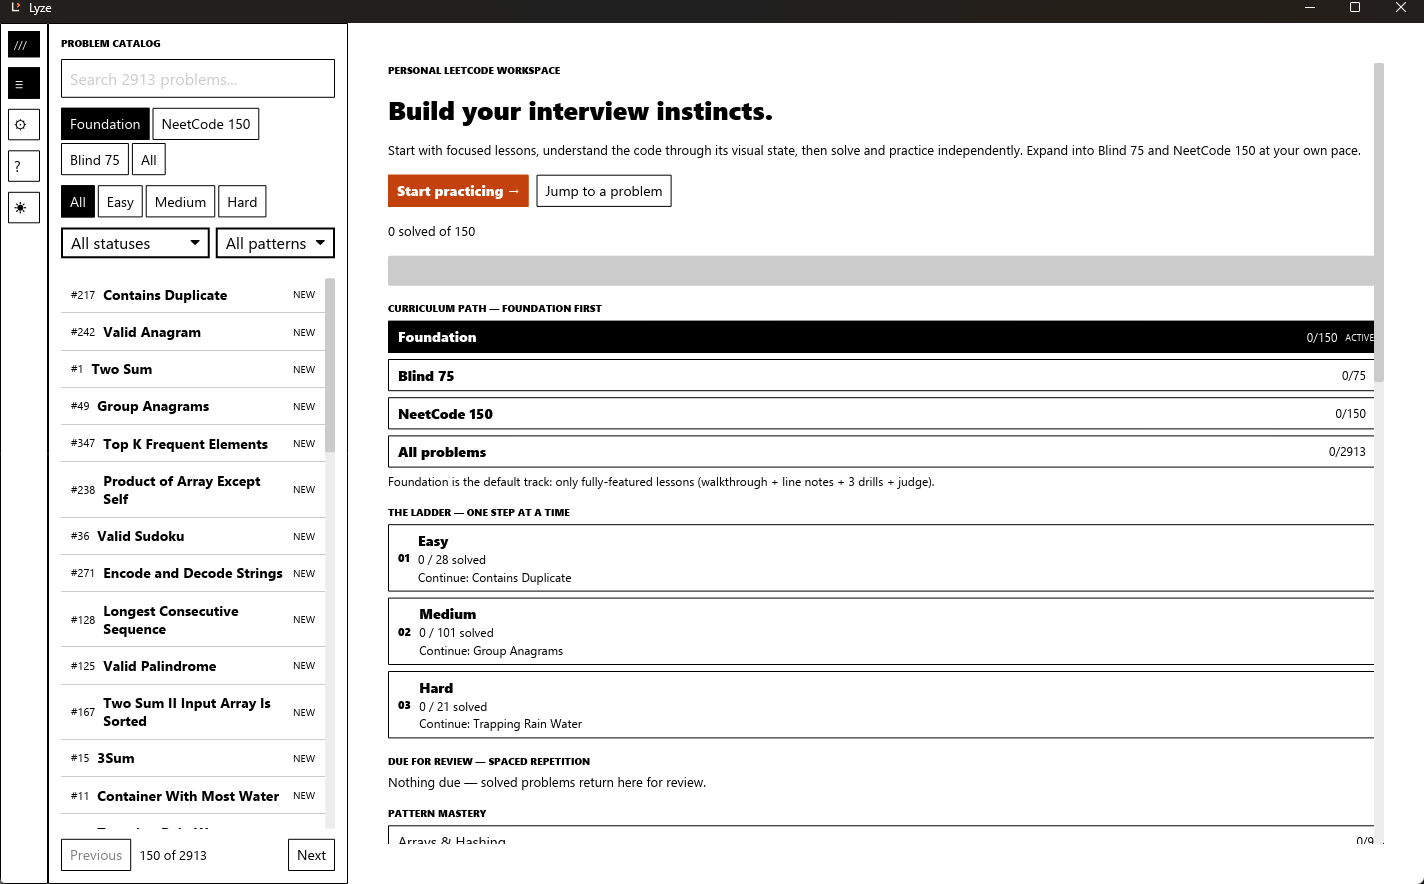
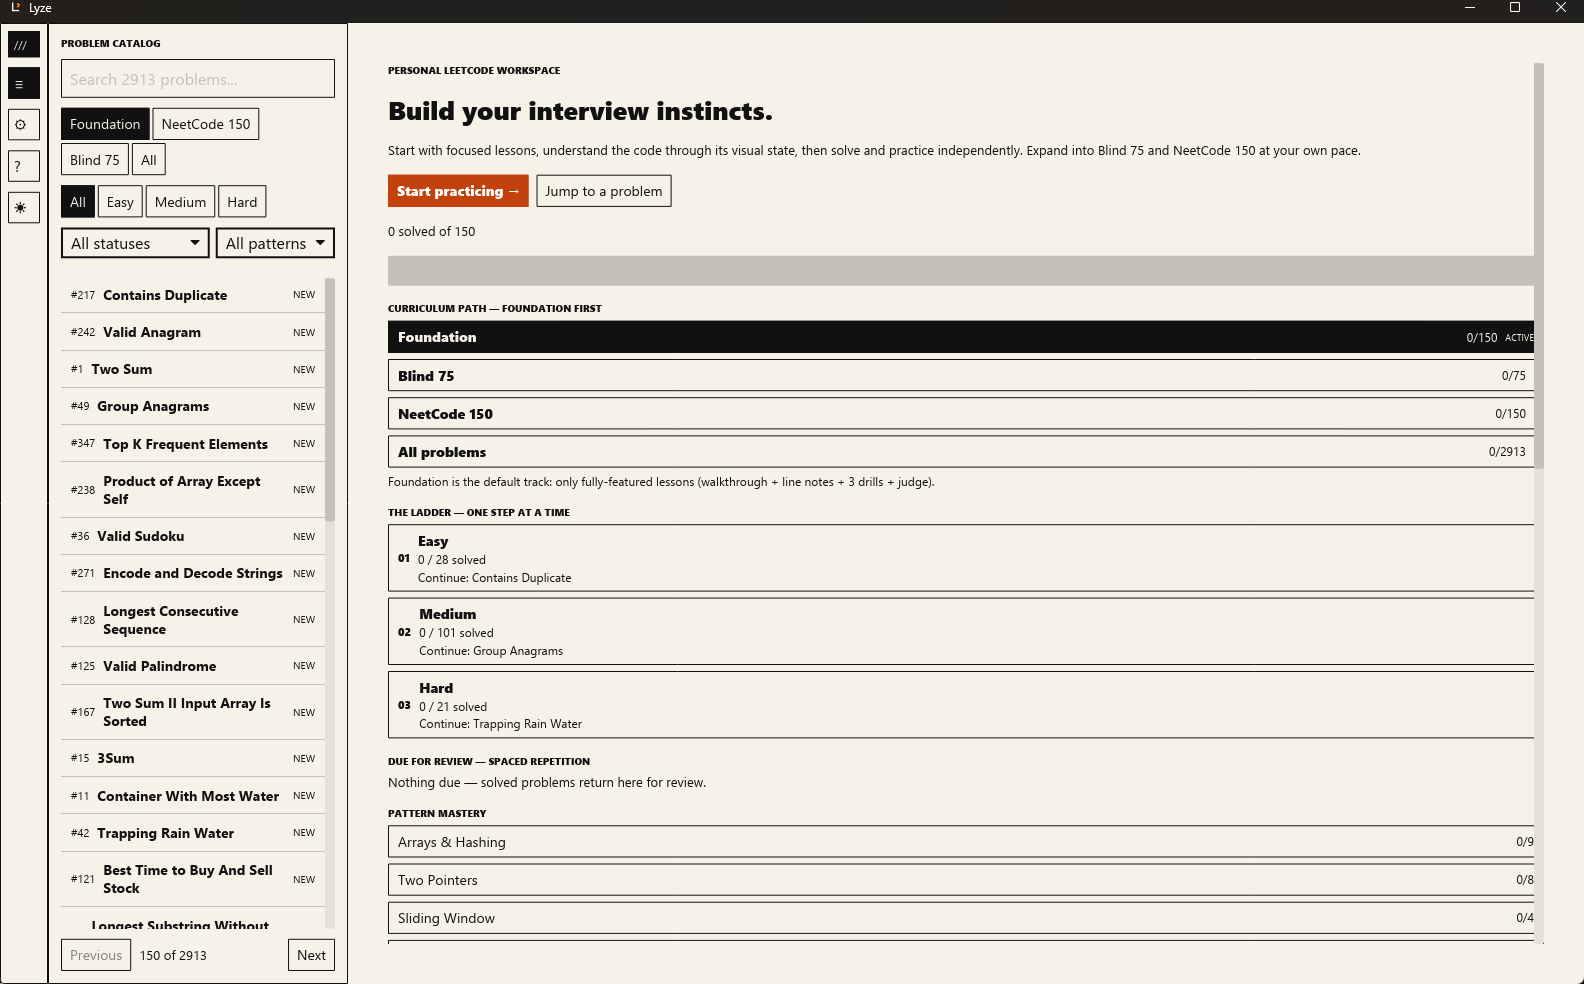
Consistent Light theme screenshots + appearance screen with VS Code import

Changed region(s): [[0.0, 0.0, 1.0, 1.0]]

diff --git a/README.md b/README.md
@@ -35,9 +35,11 @@ So Lyze is native Rust (Iced), fully offline. The problem set, walkthroughs, and
 - **Practice mode** — 3 graded drills per lesson + fallback for every other judge-backed problem
 - **Progress + drafts** — spaced repetition tracking, all local in `%LOCALAPPDATA%`
 - **Trace view** — step through execution state visually
+- **Themes** — 16 built-ins (Dracula, Catppuccin, Night Owl, Tokyo Night, One Dark Pro, Monokai, Nord, GitHub Dark, VS Code Dark+/Light+) plus paste-any VS Code color-theme JSON to import your own
 
 ![Learn — walkthrough frames](docs/screenshots/learn.png)
 ![Practice — graded drills](docs/screenshots/practice.png)
+![Appearance — themes + VS Code import](docs/screenshots/appearance.png)
 
 ## Build from source
 
